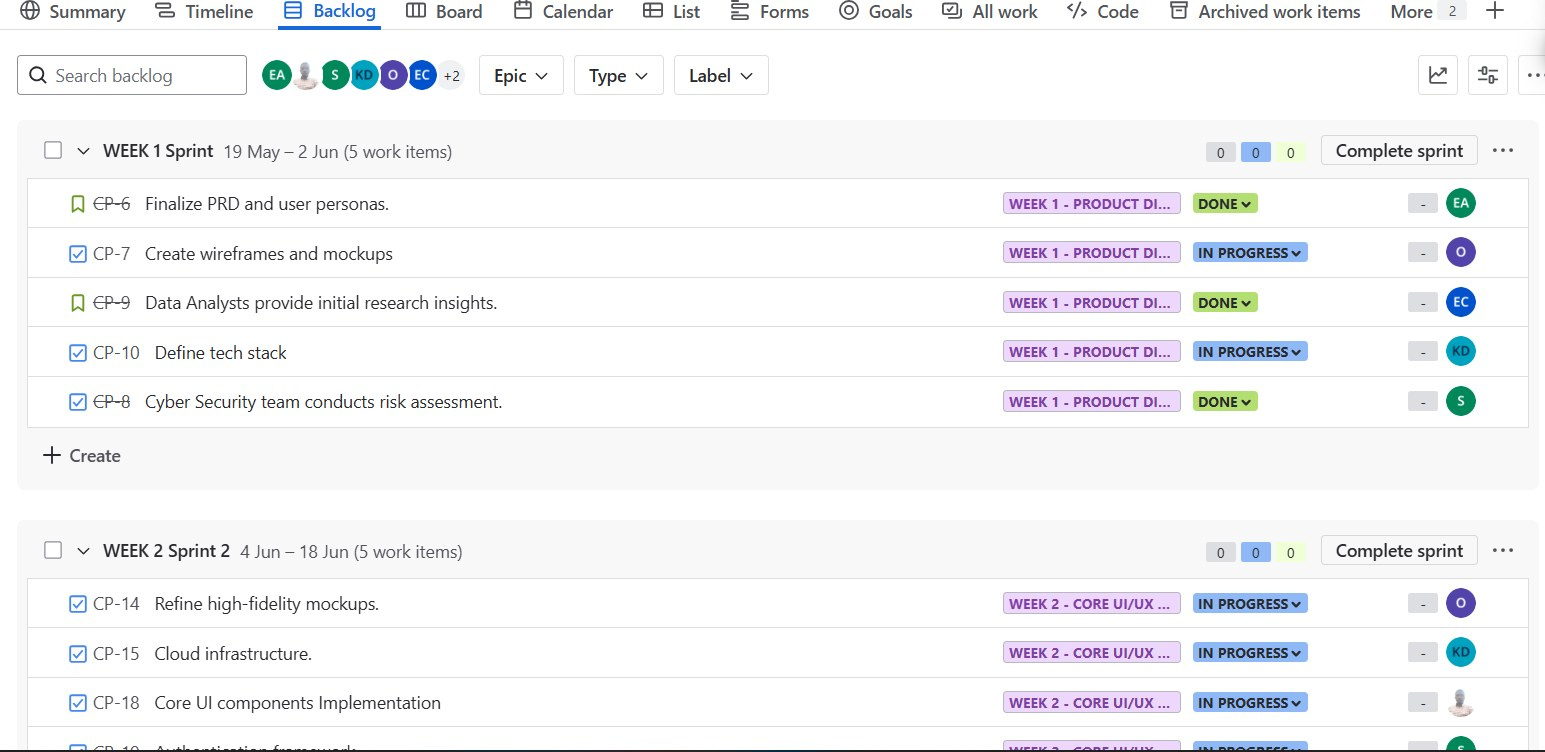
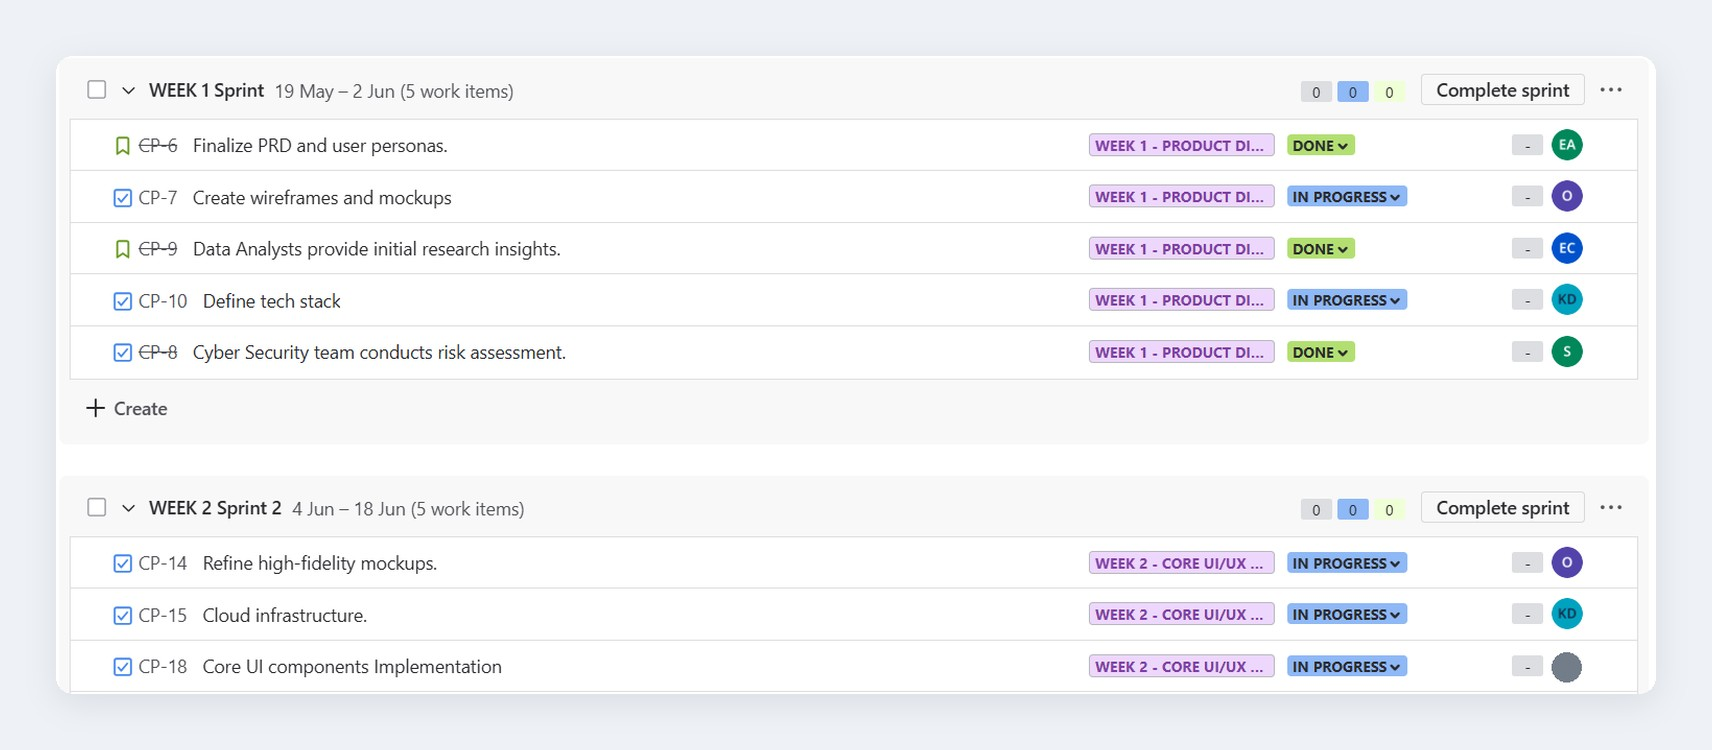
Refine Canvoy evidence images
- Crop out Figma/Jira UI clutter and frame all four images consistently
- Figma board: screens only, no truncated frame labels
- Landing page: relabelled as Version 1 / Version 2, desktop and mobile
- Jira backlog: teammate photo avatar replaced with a neutral circle
- Jira summary keeps the version without team names in the activity feed

Claude-Session: https://claude.ai/code/session_01XH2JwEqoV2x27HPiDGQn33

diff --git a/app/case-studies/canvoy/page.tsx b/app/case-studies/canvoy/page.tsx
@@ -56,7 +56,7 @@ export default function CanvoyCaseStudy() {
               </video>
               <span>Canvoy product concept walkthrough</span>
             </div>
-            <a className="media-frame" href="/portfolio/full/canvoy-landing-desktop-mobile.jpg" target="_blank" rel="noreferrer"><img src="/portfolio/full/canvoy-landing-desktop-mobile.jpg" alt="Canvoy landing page designs for desktop and mobile" /><span>Landing page · desktop and mobile</span></a>
+            <a className="media-frame" href="/portfolio/full/canvoy-landing-desktop-mobile.jpg" target="_blank" rel="noreferrer"><img src="/portfolio/full/canvoy-landing-desktop-mobile.jpg" alt="Two versions of the Canvoy landing page design, each shown on desktop and mobile" /><span>Landing page · two design versions, desktop and mobile</span></a>
             <a className="media-frame" href="/portfolio/full/canvoy-figma-flows.jpg" target="_blank" rel="noreferrer"><img src="/portfolio/full/canvoy-figma-flows.jpg" alt="Figma board of Canvoy sign-up, verification, security, dashboard and profile screens" /><span>Figma · sign-up, security and dashboard flows</span></a>
             <a className="media-frame" href="/portfolio/full/canvoy-jira-backlog.jpg" target="_blank" rel="noreferrer"><img src="/portfolio/full/canvoy-jira-backlog.jpg" alt="Jira backlog showing Week 1 product discovery and Week 2 UI/UX sprints" /><span>Jira backlog · sprint plan</span></a>
             <a className="media-frame" href="/portfolio/full/canvoy-jira-summary.jpg" target="_blank" rel="noreferrer"><img src="/portfolio/full/canvoy-jira-summary.jpg" alt="Jira project summary showing 42 work items and their status" /><span>Jira summary · 42 work items tracked</span></a>
